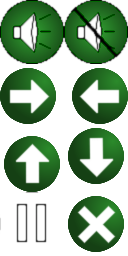
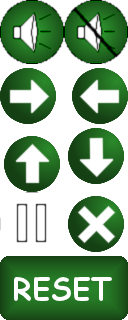
Starting to implement the reset button

diff --git a/MrMunch/src/com/androidgames/mrmunch/SettingsScreen.java b/MrMunch/src/com/androidgames/mrmunch/SettingsScreen.java
@@ -1,9 +1,9 @@
 package com.androidgames.mrmunch;
 
+import java.util.ArrayList;
 import java.util.List;
 
 import android.graphics.Color;
-
 import com.androidgames.framework.Game;
 import com.androidgames.framework.Graphics;
 import com.androidgames.framework.Input.KeyEvent;
@@ -15,19 +15,35 @@ public class SettingsScreen extends Screen {
 	private final int BUTTON_PREV_X = 0;
 	private final int BUTTON_PREV_Y = 416;
 	
+	private final int BUTTON_RESET_X = 100;
+	private final int BUTTON_RESET_Y = 416;
+	
 	private final int SETTINGS_IMAGE_X = 64;
 	private final int SETTINGS_IMAGE_Y = 20;
 	
+    private List<Bounds> mBounds;
+	
+	private final int CLICK_NO_EVENT = -1;
+	private final int CLICK_BACK = 0;
+	private final int CLICK_RESET = 1;
+	
 	public SettingsScreen(Game game) {
 		super(game);
-	}
+        Graphics g = game.getGraphics();
+        
+        //Defining the BOUNDS where some CLICK_EVENT should happen
+        mBounds = new ArrayList<Bounds>();
+        mBounds.add(new Bounds(CLICK_BACK, BUTTON_PREV_X, g.getHeight() - Assets.BUTTON_HEIGHT, Assets.BUTTON_WIDTH, Assets.BUTTON_HEIGHT));
+        mBounds.add(new Bounds(CLICK_RESET, BUTTON_RESET_X, BUTTON_RESET_Y, 2*Assets.BUTTON_WIDTH, 2*Assets.BUTTON_HEIGHT));        
+    }
 	
 	@Override
 	public void update(float deltaTime) {
-		int len;
+		int len, clickEvent;
 		List<TouchEvent> events = game.getInput().getTouchEvents();
 		List<KeyEvent> keyEvents = game.getInput().getKeyEvents();
         
+		//Dealing with KEY EVENTS
         len = keyEvents.size();
         for(int i=0; i<len; i++){
         	KeyEvent kevent = keyEvents.get(i);
@@ -35,18 +51,26 @@ public class SettingsScreen extends Screen {
 	    		game.setScreen(new MainMenuScreen(game));
         }
         
+        //Dealing with TOUCH EVENTS
         Graphics g = game.getGraphics();
         len = events.size();
         for(int i=0; i<len; i++) {
         	TouchEvent event = events.get(i);
-        	
         	if (event.type == TouchEvent.TOUCH_UP) {
-                if (event.x < Assets.BUTTON_WIDTH && event.y > g.getHeight() - Assets.BUTTON_HEIGHT ) {
-                    if(Settings.soundEnabled)
-                        Assets.click.play(1);
-                    game.setScreen(new MainMenuScreen(game));
-                    return;
-                }
+        		
+        		clickEvent = eventInBounds(mBounds, event);
+        		
+        		switch(clickEvent){
+            	case CLICK_BACK:
+            		game.setScreen(new MainMenuScreen(game));
+            		break;
+            	case CLICK_RESET:
+            		Settings.resetScore();
+            		break;
+        		}
+        		//play sound if clicked a item and sound is enabled
+            	if(clickEvent != CLICK_NO_EVENT && Settings.soundEnabled)
+            		Assets.click.play(1);
             }
         	
         	int y = g.getHeight()/2;
@@ -78,6 +102,11 @@ public class SettingsScreen extends Screen {
         	g.drawText(g, ""+i, i * (g.getWidth()-30)/5 - Assets.NUMBER_WIDTH , g.getHeight()/2);
         }
         g.drawPixmap(Assets.buttons, BUTTON_PREV_X, BUTTON_PREV_Y, Assets.BUTTON_LEFT_SCRX, Assets.BUTTON_LEFT_SCRY, Assets.BUTTON_WIDTH, Assets.BUTTON_HEIGHT);
+        g.drawPixmap(Assets.buttons, BUTTON_RESET_X, BUTTON_RESET_Y, Assets.BUTTON_RESET_SCRX, Assets.BUTTON_RESET_SCRY, 2*Assets.BUTTON_WIDTH, 2*Assets.BUTTON_HEIGHT);
+        
+        if(DEBUG_BOUNDS == true){
+        	drawDebugBounds(g, mBounds);
+        }
 	}
 	
 	@Override

diff --git a/MrMunch/src/com/androidgames/mrmunch/GameScreen.java b/MrMunch/src/com/androidgames/mrmunch/GameScreen.java
@@ -371,7 +371,7 @@ public class GameScreen extends Screen {
         g.drawPixmap(Assets.buttons, g.getWidth() - 2*Assets.BUTTON_WIDTH, g.getHeight() - 2*Assets.BUTTON_HEIGHT -32, Assets.BUTTON_UP_SCRX, Assets.BUTTON_UP_SCRY, Assets.BUTTON_WIDTH, Assets.BUTTON_HEIGHT);
         g.drawPixmap(Assets.buttons, g.getWidth() - 2*Assets.BUTTON_WIDTH, g.getHeight() - Assets.BUTTON_HEIGHT, Assets.BUTTON_DOWN_SCRX, Assets.BUTTON_DOWN_SCRY, Assets.BUTTON_WIDTH, Assets.BUTTON_HEIGHT);
         
-        if(debugBounds == true){
+        if(DEBUG_BOUNDS == true){
         	drawDebugBounds(g, mBoundsRunning);
         }
     }
@@ -382,7 +382,7 @@ public class GameScreen extends Screen {
         g.drawPixmap(Assets.pause, PAUSE_IMAGE_X, PAUSE_IMAGE_Y);
         g.drawPixmap(Assets.rectangle, 0 ,g.getHeight() - 2*Assets.BUTTON_HEIGHT -32);
         
-        if(debugBounds == true){
+        if(DEBUG_BOUNDS == true){
         	drawDebugBounds(g, mBoundsPaused);
         }
     }

diff --git a/MrMunch/src/com/androidgames/mrmunch/Settings.java b/MrMunch/src/com/androidgames/mrmunch/Settings.java
@@ -11,7 +11,7 @@ import com.androidgames.framework.FileIO;
 public class Settings {
     public static boolean soundEnabled = true;
     public static int[] highscores = new int[] { 0, 0, 0, 0, 0 };
-    public static String[] playerNames = new String[] { "AAA", "AAA", "AAA", "AAA", "AAA" };
+    public static String[] playerNames = new String[] { ".....", ".....", ".....", ".....", "....." };
     public static int gameSpeed = 1;
 
     public static void load(FileIO files) {
@@ -83,5 +83,9 @@ public class Settings {
     			}
     		}
     	}
+    }
+    
+    public static void resetScore() {
+    	
     }
 }

diff --git a/MrMunch/src/com/androidgames/mrmunch/MainMenuScreen.java b/MrMunch/src/com/androidgames/mrmunch/MainMenuScreen.java
@@ -108,7 +108,7 @@ public class MainMenuScreen extends Screen {
         else
             g.drawPixmap(Assets.buttons, BUTTON_SOUND_X, BUTTON_SOUND_Y, Assets.BUTTON_SOUND_OFF_SCRX, Assets.BUTTON_SOUND_OFF_SCRY, Assets.BUTTON_WIDTH, Assets.BUTTON_HEIGHT);
         
-        if(debugBounds == true){
+        if(DEBUG_BOUNDS == true){
         	drawDebugBounds(g, mBounds);
         }
     }

diff --git a/MrMunch/src/com/androidgames/mrmunch/Assets.java b/MrMunch/src/com/androidgames/mrmunch/Assets.java
@@ -31,6 +31,8 @@ public class Assets {
 	public static int BUTTON_CANCEL_SCRY = 192;
 	public static int BUTTON_PAUSE_SCRX = 0;
 	public static int BUTTON_PAUSE_SCRY = 192;
+	public static int BUTTON_RESET_SCRX = 0;
+	public static int BUTTON_RESET_SCRY = 256;
 	
     public static Pixmap numbers;
     public static int NUMBER_WIDTH = 20;

diff --git a/MrMunch/src/com/androidgames/framework/Screen.java b/MrMunch/src/com/androidgames/framework/Screen.java
@@ -9,7 +9,7 @@ import com.androidgames.framework.Input.TouchEvent;
 public abstract class Screen {
     protected final Game game;
     
-    protected boolean debugBounds = false;
+    protected boolean DEBUG_BOUNDS = false;
     
     public Screen(Game game) {
         this.game = game;
